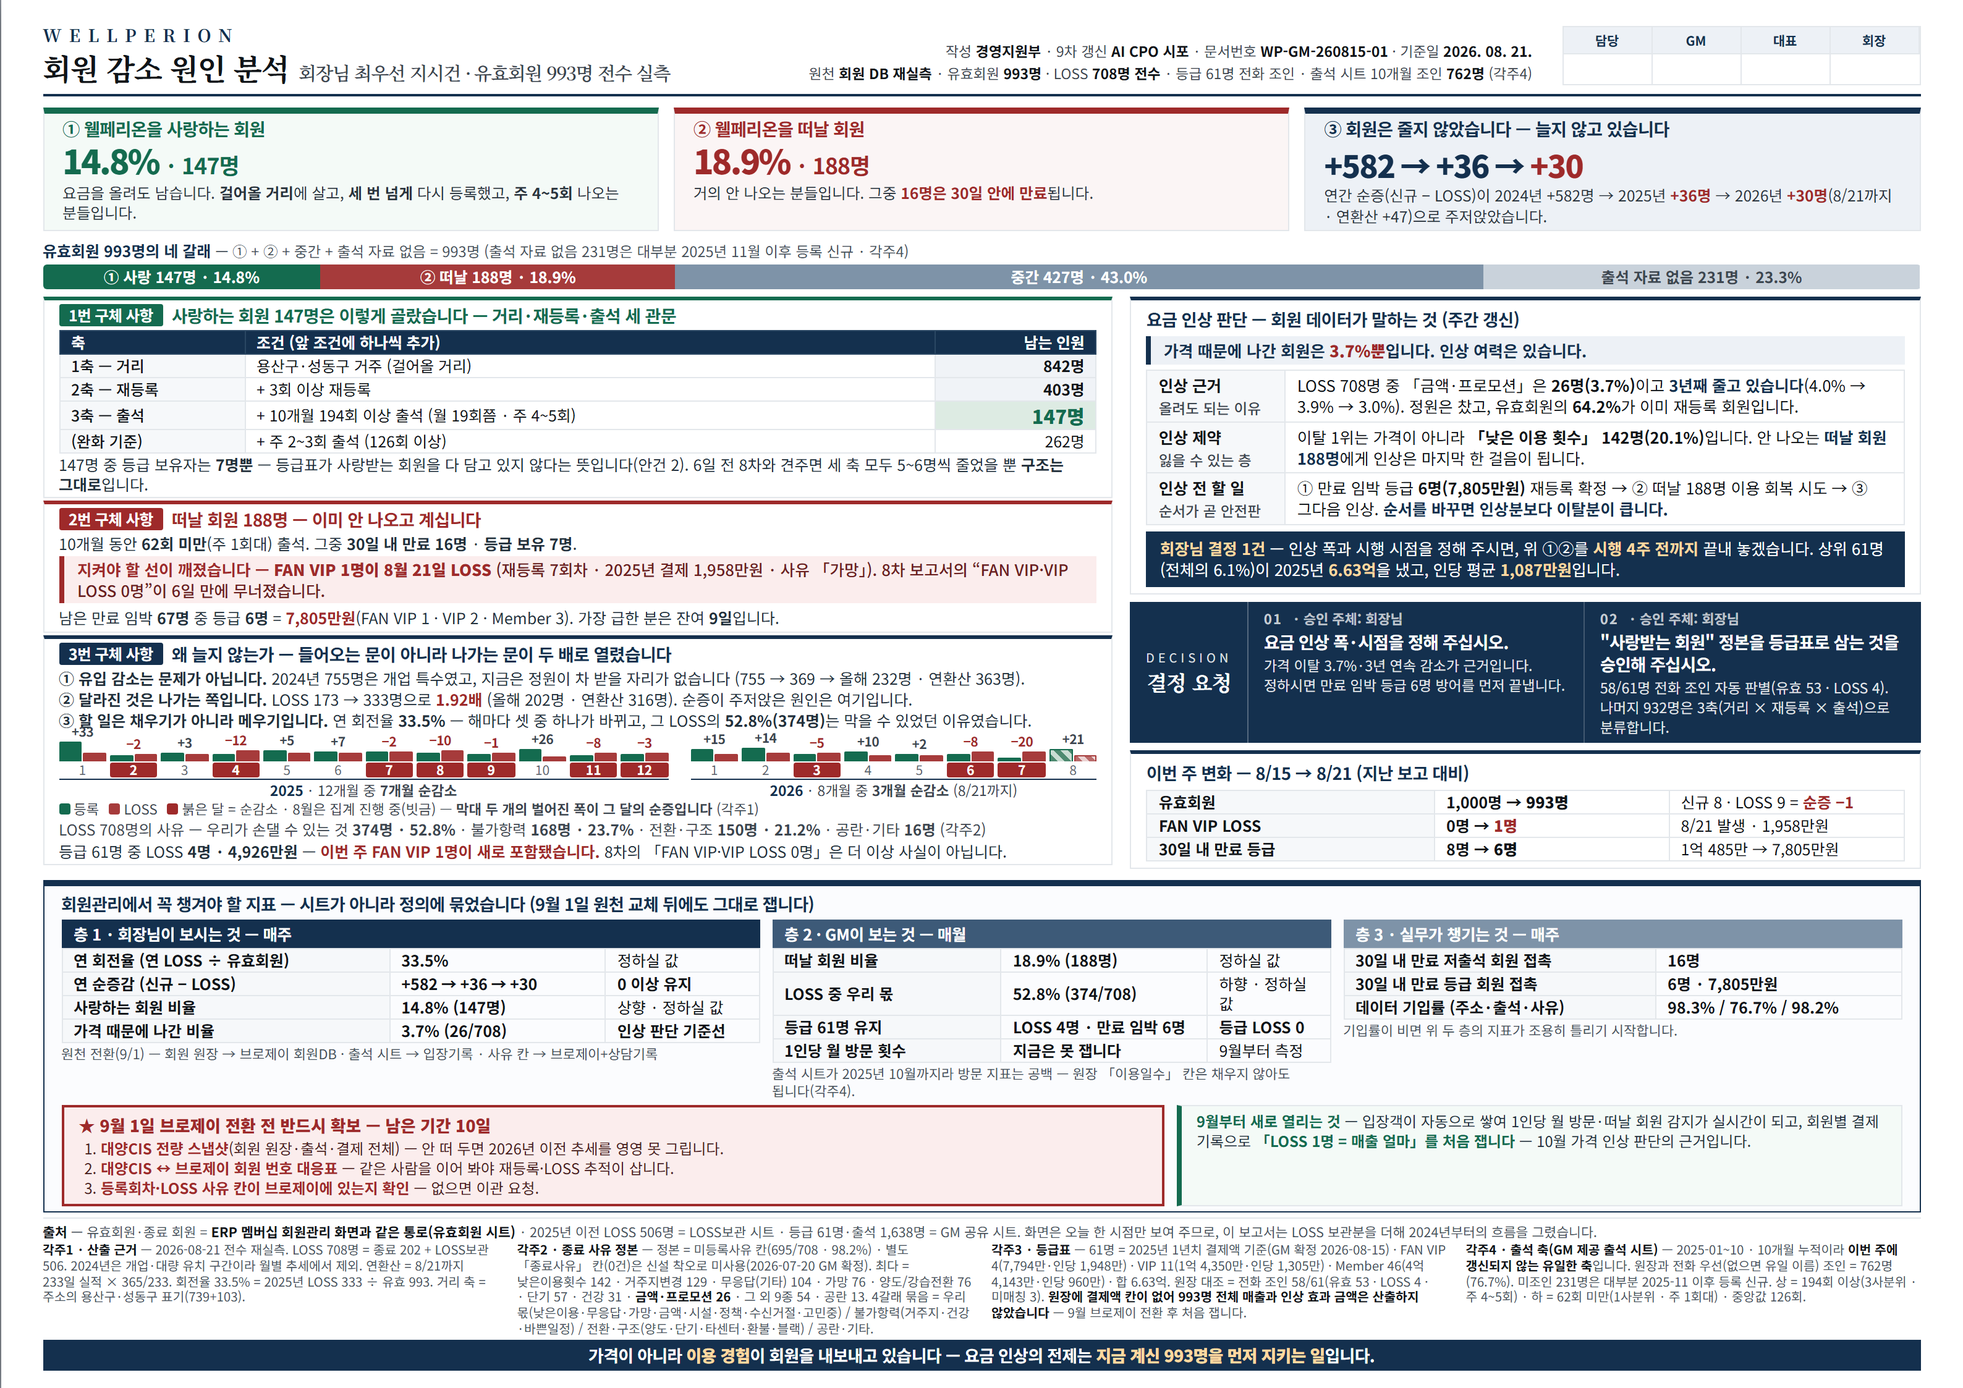
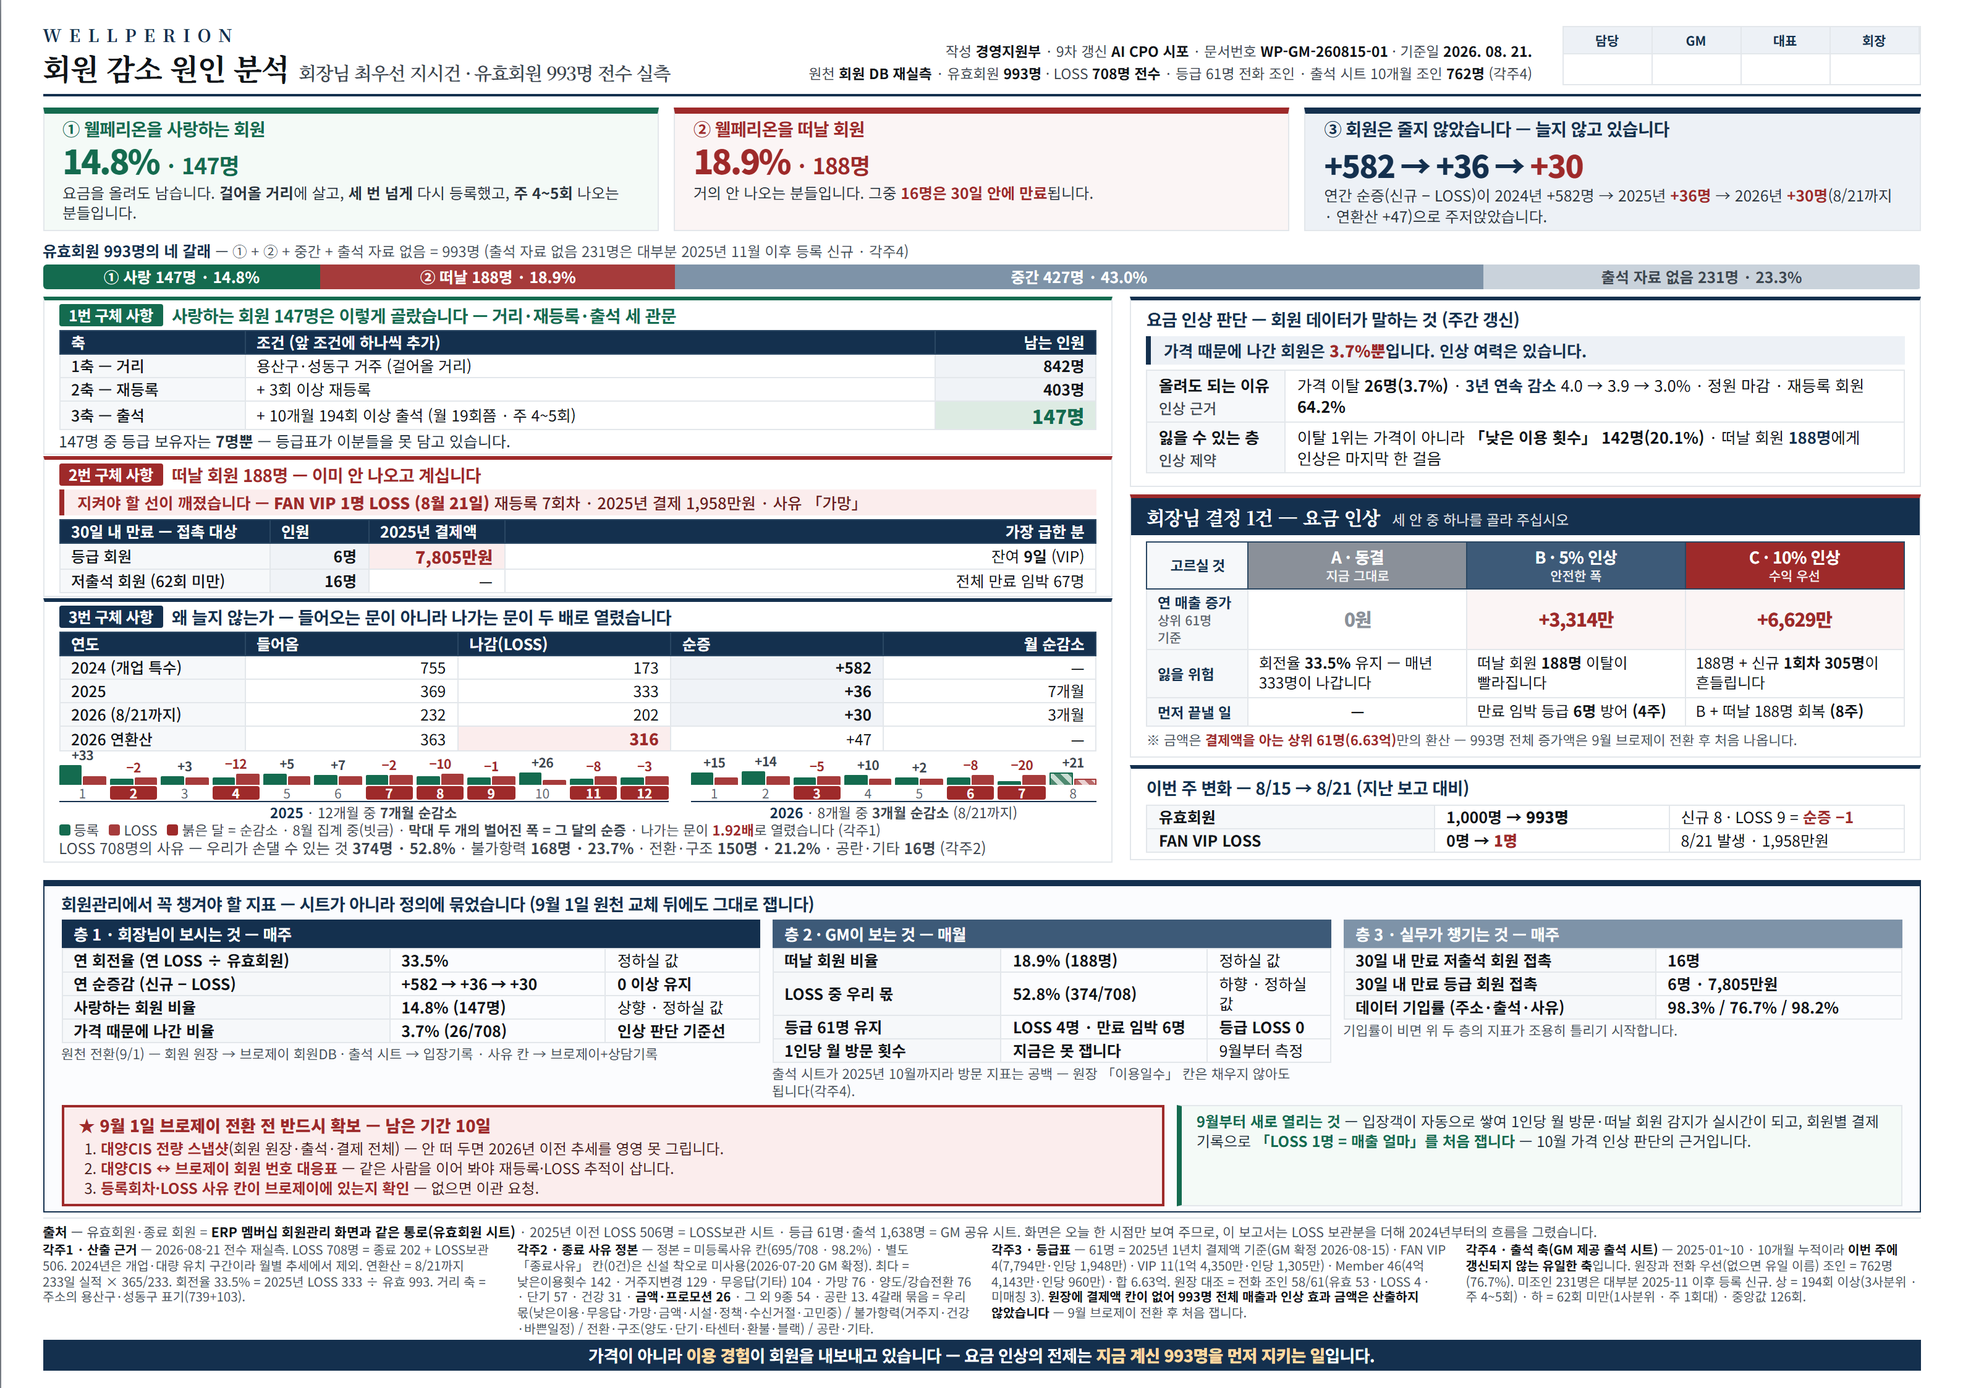
docs(cpo): 회원 감소 원인 분석 A3 — 결정 카드를 3안 비교표로 교체 · 줄글을 표로
GM 지적 3건 반영(2026-08-21):
1) '결정 요청 이렇게 하면 의미없어' — '정해 주십시오'만 있고 고를 것이 없었다.
   회장님이 짚을 수 있는 A/B/C 3안 비교표로 교체:
     A 동결(0원) / B 5% 인상(+3,314만) / C 10% 인상(+6,629만)
     행 = 연 매출 증가 · 잃을 위험 · 먼저 끝낼 일(준비 기간 포함)
   금액 기반은 결제액을 아는 상위 61명(6.63억)뿐임을 카드 안에 명시.
   993명 전체 증가액은 원장에 결제액 칸이 없어 산출 불가(9월 브로제이 전환 후 최초).
2) '글이 너무 많아 · 표와 디자인을 활용' — 줄글 6문단을 표 3개로 교체:
   - 3번 구체사항 문단 3개 → 연도별 유입/LOSS/순증/월순감소 표
   - 2번 만료 임박 문장 → 접촉 대상 표(등급 6명 7,805만원 · 저출석 16명)
   - 요금 인상 판단 3행 → 2행(순서 항목은 결정 카드와 중복이라 제거)
   중복 문장 2개 삭제(등급 LOSS 요약 · 완화 기준).
3) '위 3가지 지표는 임팩트 있어' — 상단 hero 3장은 그대로 두고 같은 어법을
   결정 카드 금액 셀에 확장(큰 숫자 + 색 대비).

렌더 검증: A3 1587x1123 넘침 0(sheet/colL/colR/kpi) · 표와 차트 겹침 해소(간격 5px 확보) · PNG 동시 갱신.

Changed region(s): [[0.0312, 0.2493, 0.9975, 0.6233]]

diff --git a/3. 웰페리온 가이드/reports/260815_회원감소원인분석_A3.html b/3. 웰페리온 가이드/reports/260815_회원감소원인분석_A3.html
@@ -83,7 +83,7 @@
 
   /* 【중단】 좌우 2단 */
   .body2{ margin-top:6px; display:flex; gap:14px; flex:1; min-height:0; }
-  .colL{ width:57%; flex:none; display:flex; flex-direction:column; gap:2px; }
+  .colL{ width:57%; flex:none; display:flex; flex-direction:column; gap:1px; }
   .colR{ flex:1; display:flex; flex-direction:column; gap:6px; min-width:0; }
 
   /* 구체 사항 박스 */
@@ -109,10 +109,10 @@
   .xt td.tot{ font-weight:700; background:#F0F3F7; }
 
   /* 월별 그래프 */
-  .chart{ display:flex; gap:18px; margin-top:0; }
+  .chart{ display:flex; gap:18px; margin-top:5px; }
   .yr{ flex:12; }
   .yr.y26{ flex:8; }
-  .yr .bars{ display:flex; align-items:flex-end; gap:3px; height:38px; }
+  .yr .bars{ display:flex; align-items:flex-end; gap:3px; height:34px; }
   .m{ flex:1; display:flex; flex-direction:column; align-items:center; justify-content:flex-end; height:100%; }
   .m b{ font-size:10.5px; font-weight:700; color:#3C464F; margin-bottom:1px; font-variant-numeric:tabular-nums; letter-spacing:-.3px; }
   .m .duo{ display:flex; align-items:flex-end; gap:1px; width:100%; }
@@ -124,7 +124,7 @@
   .m s{ text-decoration:none; font-size:10.5px; color:#5C666F; margin-top:1px; line-height:1.1; }
   .m.neg b{ color:var(--bad); }
   .m.neg s{ background:var(--bad); color:#fff; width:100%; text-align:center; border-radius:2px; font-weight:700; }
-  .legend{ margin-top:0; font-size:11.2px; color:#3C464F; line-height:1.3; }
+  .legend{ margin-top:0; font-size:11.2px; color:#3C464F; line-height:1.2; }
   .legend .sw{ display:inline-block; width:9px; height:9px; border-radius:2px; vertical-align:baseline; margin:0 3px 0 8px; }
   .legend .sw:first-child{ margin-left:0; }
   .legend .neg-sw{ background:var(--bad); }
@@ -135,7 +135,7 @@
   /* 사유 구성 스택 */
   .stack{ display:flex; height:11px; border-radius:2px; overflow:hidden; margin-top:4px; }
   .stack i{ display:block; height:100%; }
-  .chips{ font-size:12.2px; line-height:1.36; color:#3C464F; margin-top:2px; }
+  .chips{ font-size:12.2px; line-height:1.24; color:#3C464F; margin-top:1px; }
   .chips b{ font-weight:700; }
   .dot{ display:inline-block; width:8px; height:8px; border-radius:2px; margin:0 3px 0 9px; vertical-align:baseline; }
   .dot:first-child{ margin-left:0; }
@@ -156,7 +156,24 @@
   .agenda .decide{ background:var(--navy); color:#fff; font-size:12.8px; line-height:1.38; padding:5px 11px; }
   .agenda .decide b{ color:#FFD9A0; }
 
-  /* 결정 요청 */
+  /* 결정 요청 — 3안 비교 */
+  .opt{ width:100%; border-collapse:collapse; table-layout:fixed; }
+  .opt th, .opt td{ border:1px solid var(--line); padding:3px 8px; font-size:12.2px; line-height:1.3; }
+  .opt thead th{ color:#fff; font-weight:700; text-align:center; font-size:13.2px; letter-spacing:-.3px; border-color:#2A4763; }
+  .opt thead th.rk{ background:#F6F8FA; color:var(--navy); font-size:11.5px; }
+  .opt th.oa{ background:#8A9099; } .opt th.ob{ background:#3D5A78; } .opt th.oc{ background:var(--bad); }
+  .opt th.oa small, .opt th.ob small, .opt th.oc small{ display:block; font-size:10.5px; font-weight:500; opacity:.9; letter-spacing:0; }
+  .opt td.rk{ background:#F6F8FA; font-weight:700; font-size:11.6px; color:var(--navy); }
+  .opt td.money{ text-align:center; font-weight:900; font-size:15px; font-variant-numeric:tabular-nums; letter-spacing:-.6px; }
+  .opt td.money.up{ background:#FBF5F5; color:var(--bad); }
+  .opt td.money.zero{ color:#8A9099; }
+  .opt td.c{ text-align:center; font-weight:700; }
+  .askhead{ background:var(--navy); color:#fff; padding:4px 12px; display:flex; align-items:baseline; gap:10px; }
+  .askhead strong{ font-family:'Noto Serif KR',serif; font-size:15.5px; letter-spacing:-.5px; }
+  .askhead span{ font-size:11.5px; opacity:.85; }
+  .asknote{ font-size:11px; color:#48525B; line-height:1.32; margin-top:3px; }
+  .asknote b{ color:var(--bad); }
+
   .ask{ background:var(--navy); color:#fff; display:flex; align-items:stretch; }
   .ask .lb{ width:96px; flex:none; display:flex; flex-direction:column; align-items:center; justify-content:center;
     border-right:1px solid rgba(255,255,255,.28); }
@@ -282,24 +299,36 @@
             <tr><td class="k">1축 — 거리</td><td style="text-align:left">용산구·성동구 거주 (걸어올 거리)</td><td class="tot">842명</td></tr>
             <tr><td class="k">2축 — 재등록</td><td style="text-align:left">+ 3회 이상 재등록</td><td class="tot">403명</td></tr>
             <tr><td class="k">3축 — 출석</td><td style="text-align:left">+ 10개월 194회 이상 출석 (월 19회쯤 · 주 4~5회)</td><td class="core">147명</td></tr>
-            <tr><td class="k">(완화 기준)</td><td style="text-align:left">+ 주 2~3회 출석 (126회 이상)</td><td>262명</td></tr>
           </tbody>
         </table>
-        <p>147명 중 등급 보유자는 <b>7명뿐</b> — 등급표가 사랑받는 회원을 다 담고 있지 않다는 뜻입니다(안건 2). 6일 전 8차와 견주면 세 축 모두 5~6명씩 줄었을 뿐 <b>구조는 그대로</b>입니다.</p>
+        <p>147명 중 등급 보유자는 <b>7명뿐</b> — 등급표가 이분들을 못 담고 있습니다.</p>
       </div>
 
       <div class="sec r">
         <h3><span class="no">2번 구체 사항</span>떠날 회원 188명 — 이미 안 나오고 계십니다</h3>
-        <p>10개월 동안 <b>62회 미만</b>(주 1회대) 출석. 그중 <b>30일 내 만료 16명</b> · <b>등급 보유 7명</b>.</p>
-        <div class="key">지켜야 할 선이 깨졌습니다 — <b>FAN VIP 1명이 8월 21일 LOSS</b> <span>(재등록 7회차 · 2025년 결제 1,958만원 · 사유 「가망」). 8차 보고서의 “FAN VIP·VIP LOSS 0명”이 6일 만에 무너졌습니다.</span></div>
-        <p style="margin-top:4px">남은 만료 임박 <b>67명</b> 중 등급 <b>6명</b> = <b style="color:var(--bad)">7,805만원</b>(FAN VIP 1 · VIP 2 · Member 3). 가장 급한 분은 잔여 <b>9일</b>입니다.</p>
+        <div class="key">지켜야 할 선이 깨졌습니다 — <b>FAN VIP 1명 LOSS (8월 21일)</b> <span>재등록 7회차 · 2025년 결제 1,958만원 · 사유 「가망」</span></div>
+        <table class="xt" style="margin-top:3px">
+          <colgroup><col style="width:170px"><col style="width:80px"><col style="width:110px"><col></colgroup>
+          <thead><tr><th>30일 내 만료 — 접촉 대상</th><th>인원</th><th>2025년 결제액</th><th>가장 급한 분</th></tr></thead>
+          <tbody>
+            <tr><td class="k">등급 회원</td><td class="tot">6명</td><td class="core" style="font-size:13.5px;background:#FBEDED;color:var(--bad)">7,805만원</td><td>잔여 <b>9일</b> (VIP)</td></tr>
+            <tr><td class="k">저출석 회원 (62회 미만)</td><td class="tot">16명</td><td>—</td><td>전체 만료 임박 67명</td></tr>
+          </tbody>
+        </table>
       </div>
 
       <div class="sec">
         <h3><span class="no">3번 구체 사항</span>왜 늘지 않는가 — 들어오는 문이 아니라 나가는 문이 두 배로 열렸습니다</h3>
-        <p><b>① 유입 감소는 문제가 아닙니다.</b> 2024년 755명은 개업 특수였고, 지금은 정원이 차 받을 자리가 없습니다 (755 → 369 → 올해 232명 · 연환산 363명).</p>
-        <p><b>② 달라진 것은 나가는 쪽입니다.</b> LOSS 173 → 333명으로 <b style="color:var(--bad)">1.92배</b> (올해 202명 · 연환산 316명). 순증이 주저앉은 원인은 여기입니다.</p>
-        <p><b>③ 할 일은 채우기가 아니라 메우기입니다.</b> 연 회전율 <b>33.5%</b> — 해마다 셋 중 하나가 바뀌고, 그 LOSS의 <b>52.8%(374명)</b>는 막을 수 있었던 이유였습니다.</p>
+        <table class="xt">
+          <colgroup><col style="width:150px"><col><col><col><col></colgroup>
+          <thead><tr><th>연도</th><th>들어옴</th><th>나감(LOSS)</th><th>순증</th><th>월 순감소</th></tr></thead>
+          <tbody>
+            <tr><td class="k">2024 (개업 특수)</td><td>755</td><td>173</td><td class="tot">+582</td><td>—</td></tr>
+            <tr><td class="k">2025</td><td>369</td><td>333</td><td class="tot">+36</td><td>7개월</td></tr>
+            <tr><td class="k">2026 (8/21까지)</td><td>232</td><td>202</td><td class="tot">+30</td><td>3개월</td></tr>
+            <tr><td class="k">2026 연환산</td><td>363</td><td class="core" style="font-size:13px;color:var(--bad);background:#FBEDED">316</td><td>+47</td><td>—</td></tr>
+          </tbody>
+        </table>
         <div class="chart">
           <div class="yr">
             <div class="bars">
@@ -332,9 +361,8 @@
             <div class="cap">2026 <span>· 8개월 중 <b>3개월 순감소</b> (8/21까지)</span></div>
           </div>
         </div>
-        <div class="legend"><span class="sw" style="background:var(--good)"></span>등록<span class="sw" style="background:#A63B3B"></span>LOSS<span class="sw neg-sw"></span>붉은 달 = 순감소 · 8월은 집계 진행 중(빗금) — <b>막대 두 개의 벌어진 폭이 그 달의 순증입니다</b> (각주1)</div>
+        <div class="legend"><span class="sw" style="background:var(--good)"></span>등록<span class="sw" style="background:#A63B3B"></span>LOSS<span class="sw neg-sw"></span>붉은 달 = 순감소 · 8월 집계 중(빗금) · <b>막대 두 개의 벌어진 폭 = 그 달의 순증</b> · 나가는 문이 <b style="color:var(--bad)">1.92배</b>로 열렸습니다 (각주1)</div>
         <div class="chips" style="margin-top:1px">LOSS 708명의 사유 — 우리가 손댈 수 있는 것 <b>374명 · 52.8%</b> · 불가항력 <b>168명 · 23.7%</b> · 전환·구조 <b>150명 · 21.2%</b> · 공란·기타 <b>16명</b> (각주2)</div>
-        <p style="margin-top:2px">등급 61명 중 LOSS <b>4명 · 4,926만원</b> — <b style="color:var(--bad)">이번 주 FAN VIP 1명이 새로 포함됐습니다.</b> 8차의 「FAN VIP·VIP LOSS 0명」은 더 이상 사실이 아닙니다.</p>
       </div>
 
     </div>
@@ -349,35 +377,51 @@
           <colgroup><col style="width:112px"><col></colgroup>
           <tbody>
             <tr>
-              <td class="a">인상 근거<span class="sub">올려도 되는 이유</span></td>
-              <td>LOSS 708명 중 「금액·프로모션」은 <b>26명(3.7%)</b>이고 <span class="lbl">3년째 줄고 있습니다</span>(4.0% → 3.9% → 3.0%). 정원은 찼고, 유효회원의 <b>64.2%</b>가 이미 재등록 회원입니다.</td>
+              <td class="a">올려도 되는 이유<span class="sub">인상 근거</span></td>
+              <td>가격 이탈 <b>26명(3.7%)</b> · <span class="lbl">3년 연속 감소</span> 4.0 → 3.9 → 3.0% · 정원 마감 · 재등록 회원 <b>64.2%</b></td>
             </tr>
             <tr>
-              <td class="a">인상 제약<span class="sub">잃을 수 있는 층</span></td>
-              <td>이탈 1위는 가격이 아니라 <b>「낮은 이용 횟수」 142명(20.1%)</b>입니다. 안 나오는 <span class="lbl">떠날 회원 188명</span>에게 인상은 마지막 한 걸음이 됩니다.</td>
-            </tr>
-            <tr>
-              <td class="a">인상 전 할 일<span class="sub">순서가 곧 안전판</span></td>
-              <td>① 만료 임박 등급 <b>6명(7,805만원)</b> 재등록 확정 → ② 떠날 188명 이용 회복 시도 → ③ 그다음 인상. <span class="lbl">순서를 바꾸면 인상분보다 이탈분이 큽니다.</span></td>
+              <td class="a">잃을 수 있는 층<span class="sub">인상 제약</span></td>
+              <td>이탈 1위는 가격이 아니라 <b>「낮은 이용 횟수」 142명(20.1%)</b> · 떠날 회원 <span class="lbl">188명</span>에게 인상은 마지막 한 걸음</td>
             </tr>
           </tbody>
         </table>
-        <div class="decide"><b>회장님 결정 1건</b> — 인상 폭과 시행 시점을 정해 주시면, 위 ①②를 <b>시행 4주 전까지</b> 끝내 놓겠습니다. 상위 61명(전체의 6.1%)이 2025년 <b>6.63억</b>을 냈고, 인당 평균 <b>1,087만원</b>입니다.</div>
       </div>
 
-      <div class="ask">
-        <div class="lb"><span>DECISION</span><strong>결정 요청</strong></div>
-        <div class="items">
-          <div class="it">
-            <div class="n">01<em>· 승인 주체: 회장님</em></div>
-            <div class="q">요금 인상 폭·시점을 정해 주십시오.</div>
-            <div class="d">가격 이탈 3.7%·3년 연속 감소가 근거입니다. 정하시면 만료 임박 등급 6명 방어를 먼저 끝냅니다.</div>
-          </div>
-          <div class="it">
-            <div class="n">02<em>· 승인 주체: 회장님</em></div>
-            <div class="q">"사랑받는 회원" 정본을 등급표로 삼는 것을 승인해 주십시오.</div>
-            <div class="d">58/61명 전화 조인 자동 판별(유효 53 · LOSS 4). 나머지 932명은 3축(거리 × 재등록 × 출석)으로 분류합니다.</div>
-          </div>
+      <div class="box" style="border-top-color:var(--bad);padding:0">
+        <div class="askhead"><strong>회장님 결정 1건 — 요금 인상</strong><span>세 안 중 하나를 골라 주십시오</span></div>
+        <div style="padding:5px 12px 6px">
+        <table class="opt">
+          <thead>
+            <tr>
+              <th class="rk" style="width:82px">고르실 것</th>
+              <th class="oa">A · 동결<small>지금 그대로</small></th>
+              <th class="ob">B · 5% 인상<small>안전한 폭</small></th>
+              <th class="oc">C · 10% 인상<small>수익 우선</small></th>
+            </tr>
+          </thead>
+          <tbody>
+            <tr>
+              <td class="rk">연 매출 증가<span style="display:block;font-weight:500;font-size:10.5px;color:#5C666F">상위 61명 기준</span></td>
+              <td class="money zero">0원</td>
+              <td class="money up">+3,314만</td>
+              <td class="money up">+6,629만</td>
+            </tr>
+            <tr>
+              <td class="rk">잃을 위험</td>
+              <td>회전율 <b>33.5%</b> 유지 — 매년 333명이 나갑니다</td>
+              <td>떠날 회원 <b>188명</b> 이탈이 빨라집니다</td>
+              <td>188명 + 신규 <b>1회차 305명</b>이 흔들립니다</td>
+            </tr>
+            <tr>
+              <td class="rk">먼저 끝낼 일</td>
+              <td class="c">—</td>
+              <td>만료 임박 등급 <b>6명</b> 방어 <b>(4주)</b></td>
+              <td>B + 떠날 188명 회복 <b>(8주)</b></td>
+            </tr>
+          </tbody>
+        </table>
+        <div class="asknote">※ 금액은 <b>결제액을 아는 상위 61명(6.63억)</b>만의 환산 — 993명 전체 증가액은 9월 브로제이 전환 후 처음 나옵니다.</div>
         </div>
       </div>
 
@@ -388,7 +432,6 @@
           <tbody>
             <tr><td class="k">유효회원</td><td class="v">1,000명 → <b>993명</b></td><td>신규 8 · LOSS 9 = <b style="color:var(--bad)">순증 −1</b></td></tr>
             <tr><td class="k">FAN VIP LOSS</td><td class="v">0명 → <b style="color:var(--bad)">1명</b></td><td>8/21 발생 · 1,958만원</td></tr>
-            <tr><td class="k">30일 내 만료 등급</td><td class="v">8명 → <b>6명</b></td><td>1억 485만 → 7,805만원</td></tr>
           </tbody>
         </table>
       </div>
